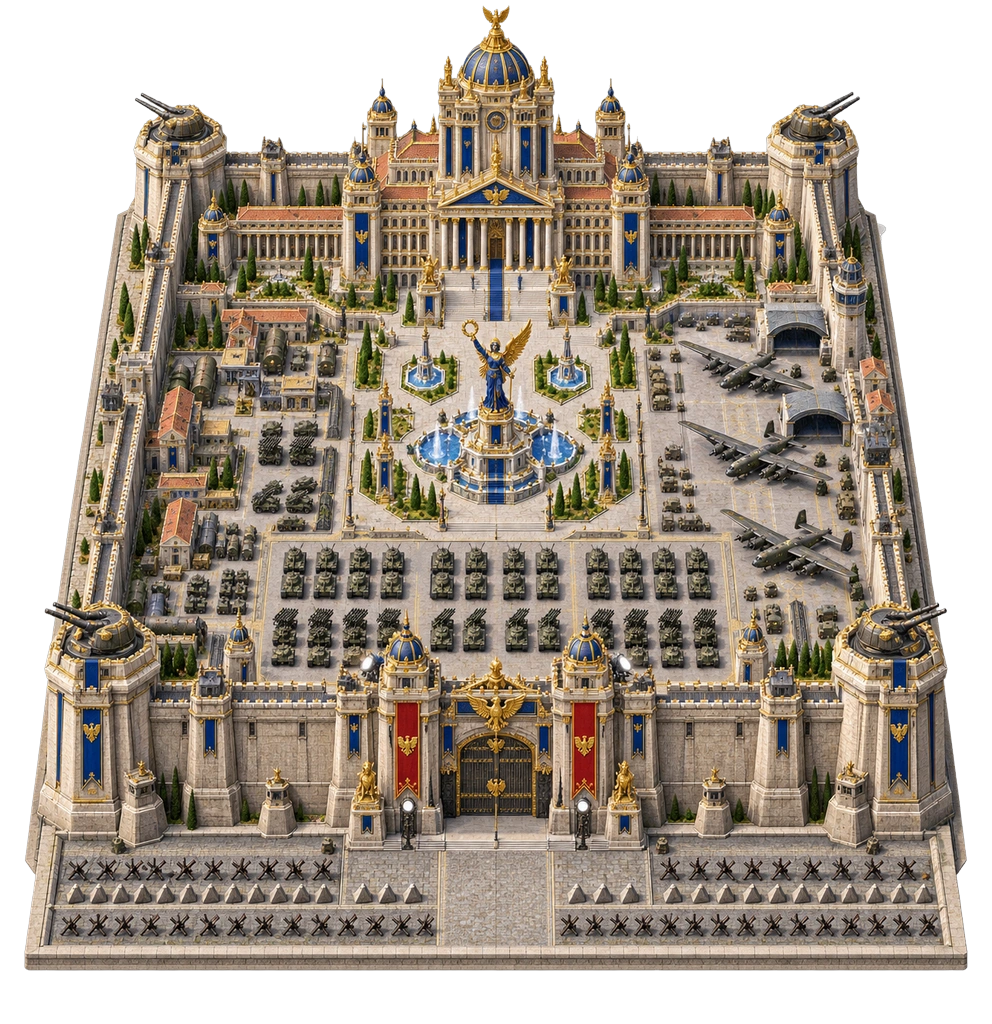
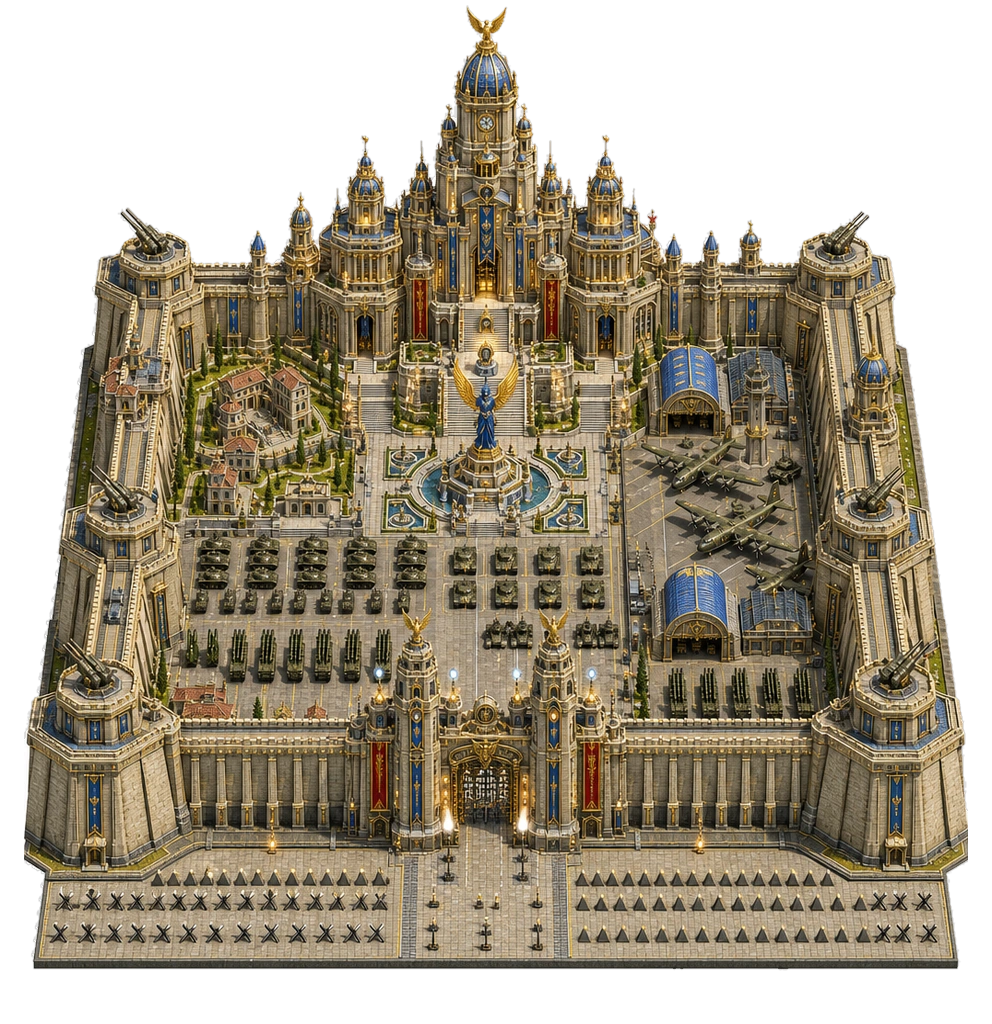
[ASSET]: 优化10级最高要塞城邦大地图模型与透明通道，修复跑道与建筑细节

diff --git a/scripts/assets/generate-player-city-lv10-fixed.py b/scripts/assets/generate-player-city-lv10-fixed.py
@@ -1,0 +1,111 @@
+"""生成城墙 10 级满级专属至尊金碧微缩模型原图 (修复飞机机头变机翼的AI生成缺陷).
+"""
+import base64
+import os
+from pathlib import Path
+import socket
+import sys
+import requests
+
+orig_getaddrinfo = socket.getaddrinfo
+def patched_getaddrinfo(host, port, *args, **kwargs):
+    if host == 'handai-code.hand-china.com':
+        return orig_getaddrinfo('116.228.77.181', port, *args, **kwargs)
+    return orig_getaddrinfo(host, port, *args, **kwargs)
+
+socket.getaddrinfo = patched_getaddrinfo
+
+ROOT = Path(__file__).resolve().parents[2]
+OUTPUT_DIR = ROOT / 'output/imagegen/player-city-tiered-20261017'
+RAW_DIR = OUTPUT_DIR / 'raw'
+API_URL = 'https://handai-code.hand-china.com/v1/images/generations'
+API_KEY = os.environ.get('HANDAI_API_KEY')
+
+PROMPT_LV10_FIXED = """Use case: stylized-concept.
+Asset type: one single complete realistic 3D miniature player-city ultimate supreme citadel model asset for the WWII strategy game 山河远征录.
+Tier: Supreme Maximum Level 10 Pinnacle Citadel (城墙10级满级至尊金碧帝国要塞大本营 · 终极王者之都).
+
+LAYOUT CONSISTENCY WITH LEVEL 9:
+- Identical core military-civic city layout:
+  1. North-central axis: Monumental Supreme Command Imperial Citadel Palace with sweeping neoclassical colonnaded wings, ceremonial marble staircase, high central clock tower, and magnificent 24k gilded royal blue and gold dome topped with golden eagle crest.
+  2. Central victory plaza in front of palace with ornamental tiered fountains and a monumental ROYAL SAPPHIRE BLUE AND GOLD winged victory goddess statue.
+  3. East sector: Heavy strategic military airfield with reinforced concrete aircraft hangars, blue glass arched roofs with gold trims, flight operations tower, and parked heavy strategic bombers.
+  4. Center & South sector: Vast paved assembly parade grounds densely arrayed with heavy battle tank battalions, self-propelled artillery, and Katyusha rocket trucks.
+  5. Four corners: Massive elevated corner bastions equipped with rotating double-barrel heavy fortress artillery turrets.
+  6. South gate: Monumental barbican gate fortress flanked by twin soaring bastion towers with armored steel portcullis gates and searchlights.
+
+AIRFIELD & AIRCRAFT ACCURACY SPECIFICATIONS (STRICT):
+- All parked aircraft on the airfield tarmac must have anatomically correct, realistic WWII multi-engine strategic bomber geometry:
+  * Distinct, rounded fuselage nose cone and glass greenhouse cockpit canopy clearly pointing diagonally towards the lower-left (southwest) runway.
+  * Symmetrical main wings mounted perpendicularly to the fuselage sides, with 4 forward-facing radial piston engines with spinning propellers.
+  * Tall, upright vertical stabilizer and horizontal tailplanes at the rear empennage.
+  * Clean landing gear wheels resting on the paved stone tarmac with realistic ground contact shadows.
+  * ABSOLUTELY NO WINGS EXTENDING FROM THE NOSE, NO DEFORMED AIRPLANE HEADS, NO MUTATED FUSELAGES.
+
+EXTREME VERTICAL HEIGHT (+50% TALLER WALLS & ARCHITECTURE):
+- The fortress perimeter walls and central command palace are 50% TALLER than Level 9, reaching the supreme peak of vertical grandeur.
+- Soaring monolithic cut-limestone and sloped reinforced concrete fortress walls rising to extraordinary heights with deep double-tiered patrol catwalks, monumental stepped buttresses, and crenellated battlements.
+- The central Supreme Command Imperial Palace is an awe-inspiring 8-10 story masterpiece that pierces high into the skyline, towering like an impregnable golden mountain fortress.
+
+RESPLENDENT OPULENCE, VIBRANT COLORS & ROYAL BLUE ACCENTS (金碧辉煌 · 丰富多彩 · 尊贵蓝饰):
+- Resplendent golden glory (金碧辉煌): Gleaming 24k gilded golden dome, golden spires, polished brass balustrades, gilded cornices, and majestic golden eagle crests. Rich royal crimson-and-gold ceremonial war banners cascading down the gate towers.
+- Royal Sapphire Blue Accents & Noble Statues (尊贵蓝色雕像与建筑点缀):
+  * In the center of the grand Victory Plaza stands a breathtaking, monumental ROYAL SAPPHIRE BLUE AND GOLD winged victory statue (sculpted from polished royal blue lapis lazuli stone with gleaming gold-leaf wings and laurels), surrounded by blue-tiled tiered fountains.
+  * The palace and grand towers feature elegant royal sapphire blue enameled pediments, cobalt blue dome ribbing accents, and royal blue ceremonial pennants with golden fringes, radiating supreme imperial majesty and noble sovereignty.
+- Rich, colorful environment: Emerald manicured formal gardens, cypress trees, terracotta clay roofs, ivory marble colonnades, dark olive-drab tanks and aircraft, and clean grey stone paving.
+
+FRONT GATE & FLAT HORIZONTAL BASE REQUIREMENTS:
+- The southern defensive wall and ground base perimeter run strictly FLAT, STRAIGHT, and HORIZONTAL across the entire bottom.
+- In front of the gate: A wide, formal, rectangular cobblestone ceremonial avenue and flat horizontal defensive apron featuring neat, parallel horizontal rows of concrete dragon's teeth (tetrahedral anti-tank pyramids) and steel Czech hedgehogs.
+- ABSOLUTELY NO TRIANGULAR JUTTING OUT, NO POINTED ARROWHEAD RAMPS, NO ANGLED CHEVRONS. Clean horizontal base retaining wall from left to right.
+
+LIGHTING & CAMERA:
+- Brilliant, crystal-clear morning sunlight from upper-left with golden highlights and soft secondary ambient fill light. Every wall facade and corner tower is fully illuminated with clear cut-stone masonry texture, golden trims, and blue accents. NO PITCH-BLACK VOIDS OR UNDETAILED SHADOW MASSES.
+- Elevated three-quarter isometric perspective (35-40 degrees above horizon, viewing from south towards north).
+- Strictly SQUARE ground footprint aligned to cardinal directions, flat thin ground base with stone border, solid seamless pure white background (#ffffff) for clean transparency isolation. All-in-focus miniature model.
+- NO floating island, NO water moat, NO modern glass skyscrapers, NO text.
+"""
+
+
+def generate_image(prompt: str, target_path: Path):
+    if not API_KEY:
+        raise ValueError('HANDAI_API_KEY is not set')
+    headers = {
+        'Authorization': f'Bearer {API_KEY}',
+        'Content-Type': 'application/json'
+    }
+    payload = {
+        'model': 'gpt-image-2',
+        'prompt': prompt.strip(),
+        'size': '1024x1024',
+        'quality': 'high',
+        'n': 1
+    }
+    print(f'Sending request to {API_URL} for {target_path.name}...')
+    resp = requests.post(API_URL, headers=headers, json=payload, timeout=180)
+    if resp.status_code != 200:
+        raise RuntimeError(f'API error {resp.status_code}: {resp.text}')
+    res_json = resp.json()
+    if 'data' not in res_json or not res_json['data']:
+        raise RuntimeError(f'No data in response: {res_json}')
+    img_data = res_json['data'][0]
+    if img_data.get('url'):
+        r = requests.get(img_data['url'], timeout=60)
+        target_path.write_bytes(r.content)
+    elif img_data.get('b64_json'):
+        target_path.write_bytes(base64.b64decode(img_data['b64_json']))
+    else:
+        raise RuntimeError(f'Unknown image format: {img_data.keys()}')
+    print(f'Successfully saved {target_path} ({target_path.stat().st_size} bytes)')
+
+
+def main():
+    RAW_DIR.mkdir(parents=True, exist_ok=True)
+    c_fixed = RAW_DIR / 'city_tall_lv10_supreme_fixed.png'
+
+    print('Generating Lv 10 Supreme Fixed Candidate...')
+    generate_image(PROMPT_LV10_FIXED, c_fixed)
+
+
+if __name__ == '__main__':
+    main()

diff --git a/scripts/assets/prepare-player-city-6tiers.py b/scripts/assets/prepare-player-city-6tiers.py
@@ -26,7 +26,7 @@ RAW_3_4 = RAW_DIR / 'city_tall_lv5_9_transparent.png'
 RAW_5_6 = RAW_DIR / 'city_tall_lv5_6_transparent.png'
 RAW_7_8 = RAW_DIR / 'city_tall_lv10_transparent.png'
 RAW_9 = RAW_DIR / 'city_tall_lv9_10_redesign_c1.png'
-RAW_10_SUPREME = RAW_DIR / 'city_tall_lv10_supreme_c2.png'
+RAW_10_SUPREME = RAW_DIR / 'city_tall_lv10_supreme_fixed_transparent.png'
 
 # 目标大地图资产
 MAP_1_2_PNG = CITIES_DIR / 'player-city-preview-map.png'
